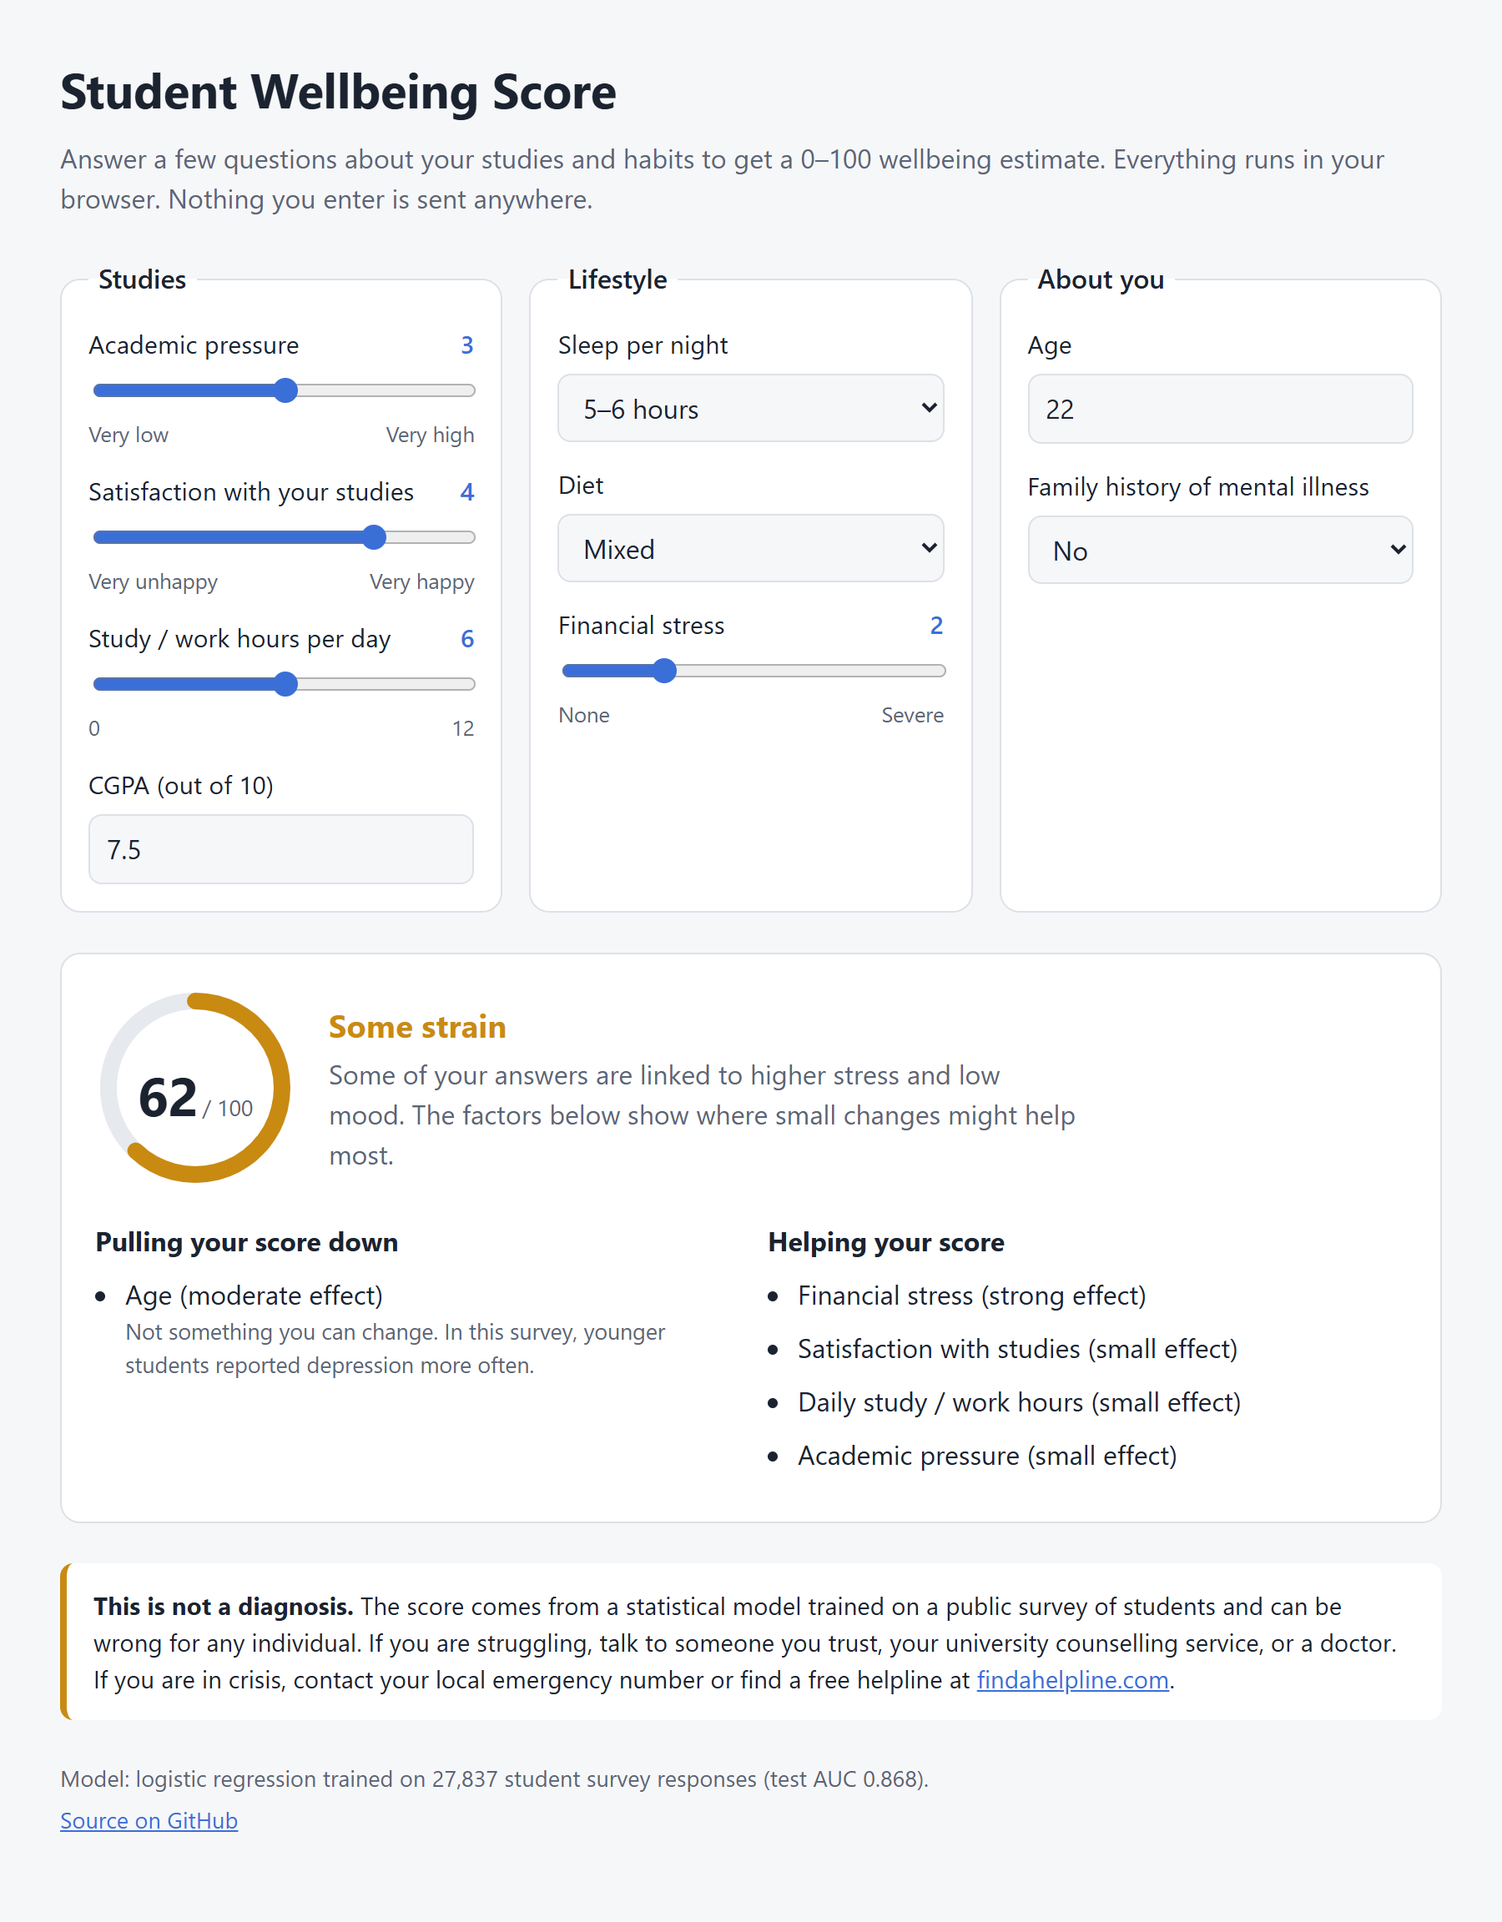
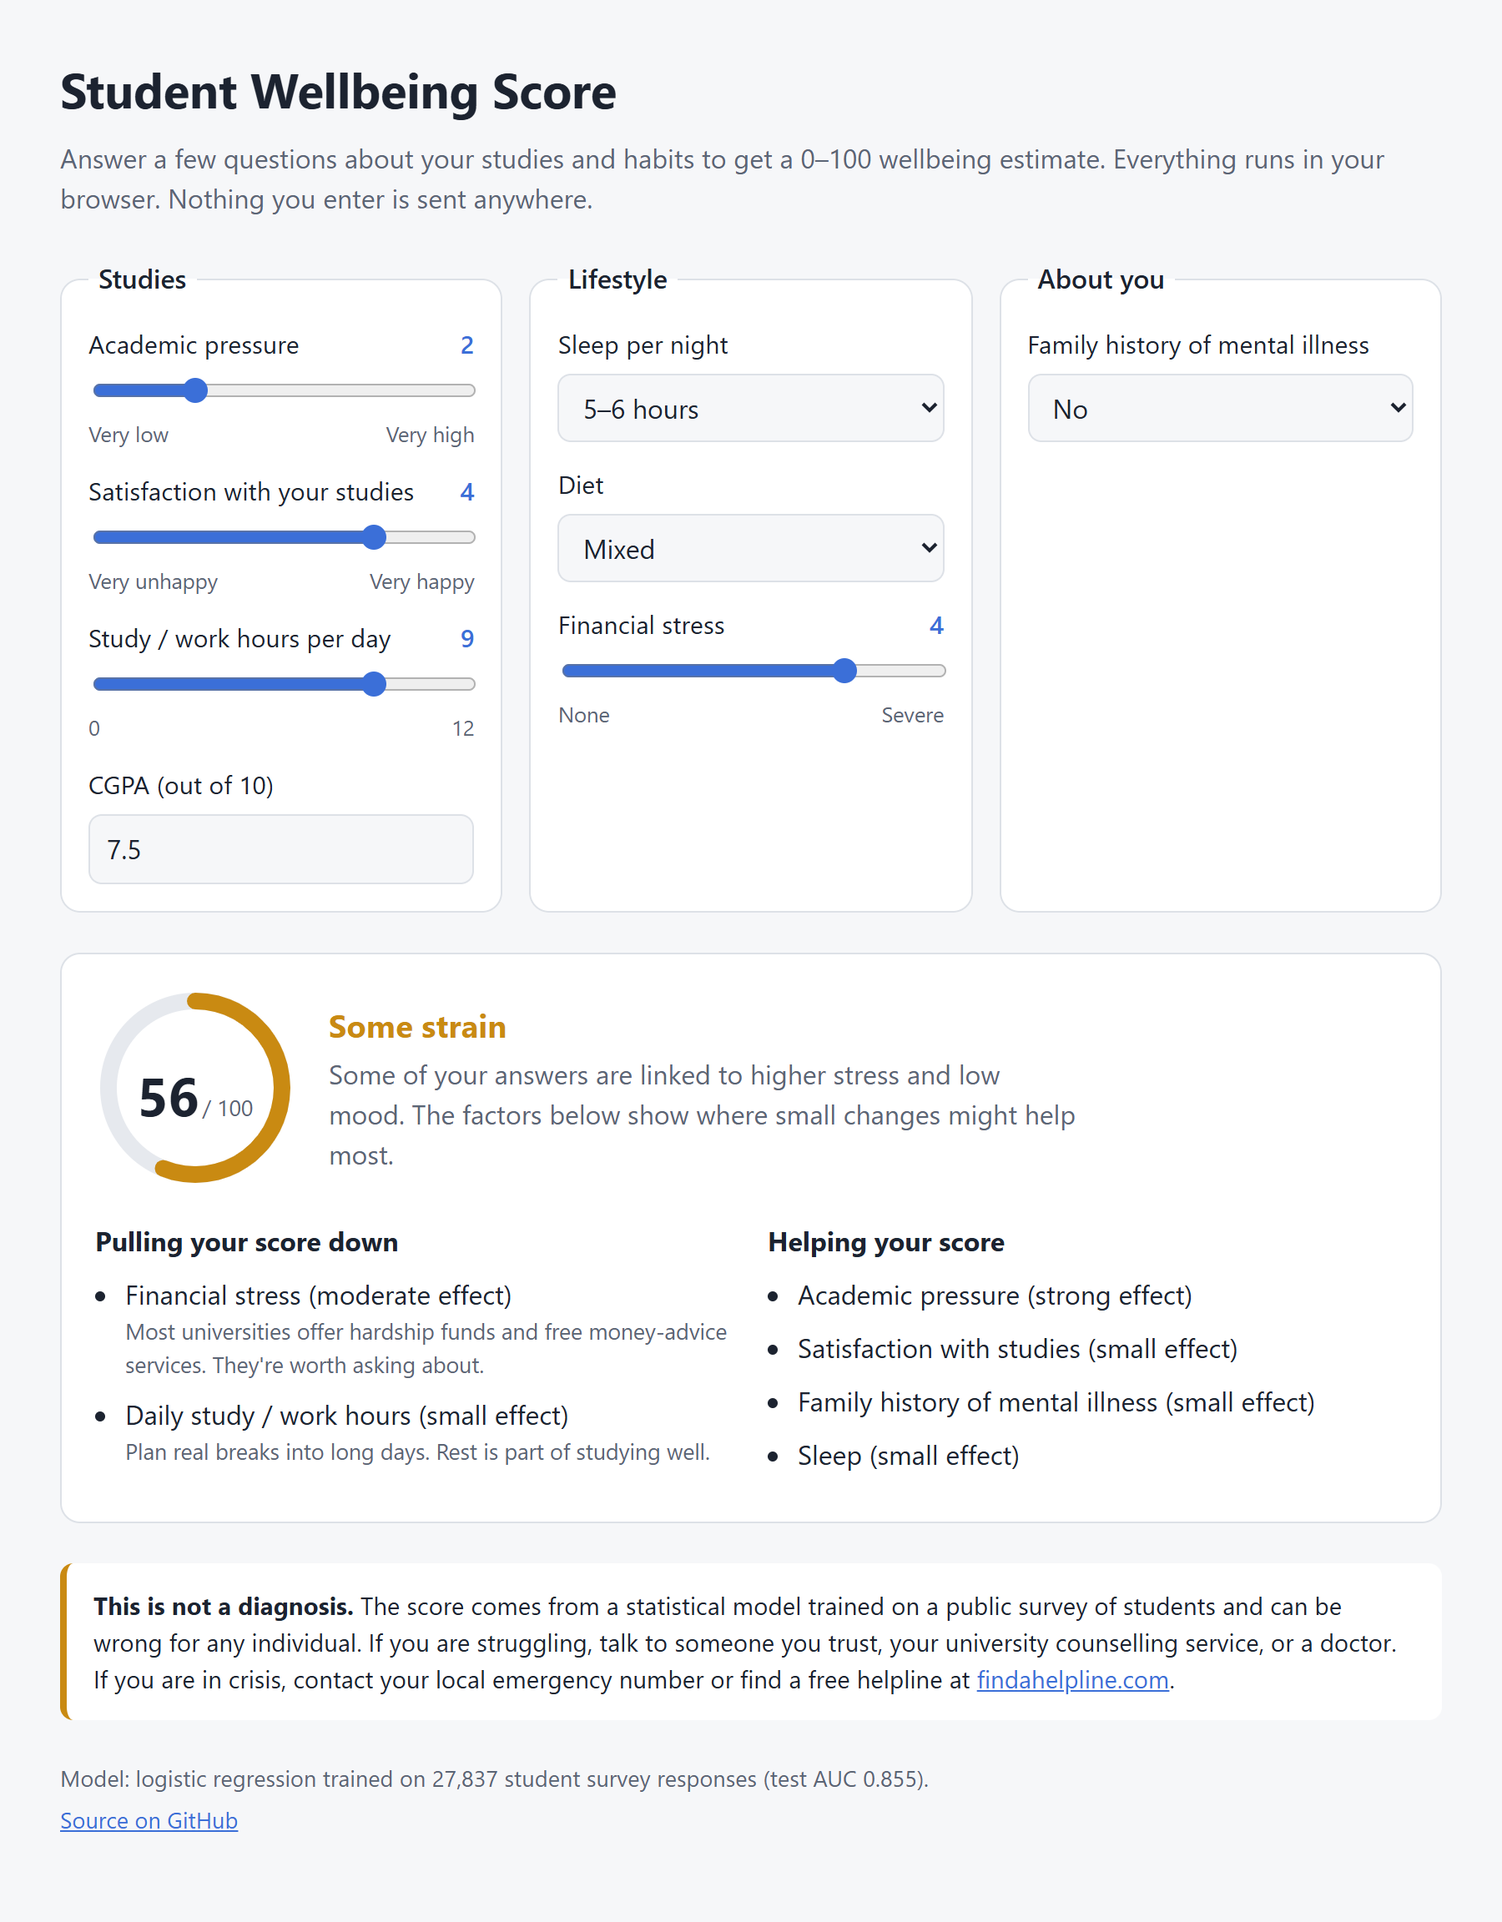
Validate on an external survey, drop age, add model comparison
- src/validate_external.py: tests the site's model on the PHQ-9 Student
  Depression Dataset (682 students, different survey). After consistency
  checks, AUC is 0.830 there vs 0.827 on Indian students with the same inputs.
- Remove age from the model and the form: it can't be changed, and its
  effect didn't hold up outside the training survey (PHQ-9 AUC 0.818 -> 0.830).
- src/compare_models.py: more complex models and more training rows give no
  meaningful gain over logistic regression.
- README: results, external validation, what's left out and why, data credits.

diff --git a/docs/app.js b/docs/app.js
@@ -23,8 +23,6 @@ const GROUPS = [
   { label: "Diet", features: ["Diet: Moderate", "Diet: Unhealthy"],
     tip: "Regular meals with fruit and vegetables help with energy and mood." },
   { label: "CGPA", features: ["CGPA"], tip: "" },
-  { label: "Age", features: ["Age"],
-    tip: "Not something you can change. In this survey, younger students reported depression more often." },
   { label: "Family history of mental illness", features: ["Family history"],
     tip: "You can't change this, but it's useful to mention if you ever speak to a doctor." },
 ];
@@ -35,7 +33,6 @@ function readInputs() {
   const sleep = f.get("sleep");
   const diet = f.get("diet");
   return {
-    "Age": num("age"),
     "Academic Pressure": num("pressure"),
     "CGPA": num("cgpa"),
     "Study Satisfaction": num("satisfaction"),

diff --git a/docs/index.html b/docs/index.html
@@ -77,11 +77,6 @@
         <legend>About you</legend>
 
         <label>
-          <span>Age</span>
-          <input type="number" name="age" min="16" max="40" step="1" value="21" inputmode="numeric">
-        </label>
-
-        <label>
           <span>Family history of mental illness</span>
           <select name="family">
             <option value="No" selected>No</option>

diff --git a/src/validate_external.py b/src/validate_external.py
@@ -1,0 +1,128 @@
+"""Test the site's model on students from a different survey (external validation).
+
+Uses the PHQ-9 Student Depression Dataset (Mendeley Data, CC BY 4.0):
+https://data.mendeley.com/datasets/kkzjk253cy/6
+
+Usage:
+    python src/validate_external.py                 # uses the CSV in data/external/
+    python src/validate_external.py path/to/file.csv
+
+Output:
+    models/external_validation.json
+"""
+
+import json
+import sys
+from pathlib import Path
+
+import numpy as np
+import pandas as pd
+from scipy.stats import spearmanr
+from sklearn.linear_model import LogisticRegression
+from sklearn.metrics import roc_auc_score
+from sklearn.model_selection import StratifiedKFold, cross_val_predict
+from sklearn.pipeline import make_pipeline
+from sklearn.preprocessing import StandardScaler
+
+import train
+
+ROOT = Path(__file__).resolve().parent.parent
+PHQ_ANSWERS = {"Not at all": 0, "Several days": 1, "More than half the days": 2, "Nearly every day": 3}
+# "Good / Average / Bad / Worst" mapped onto the site's 1-5 sliders.
+PRESSURE = {"Good": 2, "Average": 3, "Bad": 4, "Worst": 5}
+# Only these site inputs have a counterpart in the PHQ-9 dataset. The others are
+# set to the training average, so they contribute nothing to the prediction.
+SHARED = ["Academic Pressure", "Financial Stress"]
+
+
+def find_csv() -> Path:
+    if len(sys.argv) > 1:
+        return Path(sys.argv[1])
+    for path in sorted((ROOT / "data" / "external").glob("*.csv")):
+        if "PHQ_Total" in pd.read_csv(path, nrows=0).columns:
+            return path
+    sys.exit("No PHQ-9 CSV in data/external/. Download it first (see README).")
+
+
+def load(path: Path) -> pd.DataFrame:
+    df = pd.read_csv(path, encoding="utf-8-sig")
+    df.columns = df.columns.str.strip()
+    return df
+
+
+def check_consistency(df: pd.DataFrame) -> dict:
+    """Real PHQ-9 data has questions that agree with each other. Fabricated or
+    scrambled data doesn't, so check before trusting any result."""
+    answers = df[df.columns[2:11]].apply(lambda s: s.str.strip().map(PHQ_ANSWERS))
+    if answers.isna().any().any():
+        sys.exit("Unexpected answers in the PHQ-9 columns.")
+    corr = answers.corr(method="spearman").to_numpy()
+    k = answers.shape[1]
+    alpha = k / (k - 1) * (1 - answers.var().sum() / answers.sum(axis=1).var())
+    return {
+        "total_matches_answers": float((answers.sum(axis=1) == df["PHQ_Total"]).mean()),
+        "mean_question_correlation": float(corr[~np.eye(k, dtype=bool)].mean()),
+        "cronbach_alpha": float(alpha),
+    }
+
+
+def site_risk(X: pd.DataFrame) -> np.ndarray:
+    """Exactly what docs/app.js computes, with unknown inputs left at the average."""
+    model = json.loads((ROOT / "docs" / "model.json").read_text())
+    logit = model["intercept"]
+    for f in model["features"]:
+        if f["name"] in X:
+            logit = logit + f["coef"] * (X[f["name"]] - f["mean"]) / f["std"]
+    return 1 / (1 + np.exp(-logit))
+
+
+def india_reference() -> float | None:
+    """AUC on Indian students when the model only gets the same shared inputs."""
+    csvs = sorted((ROOT / "data" / "raw").glob("*.csv"))
+    if not csvs:
+        return None
+    df = train.load(csvs[0])
+    cv = StratifiedKFold(5, shuffle=True, random_state=42)
+    lr = make_pipeline(StandardScaler(), LogisticRegression(max_iter=1000))
+    p = cross_val_predict(lr, df[SHARED], df[train.TARGET].astype(int), cv=cv, method="predict_proba")[:, 1]
+    return float(roc_auc_score(df[train.TARGET].astype(int), p))
+
+
+def main():
+    path = find_csv()
+    df = load(path)
+    checks = check_consistency(df)
+    print(f"Loaded {len(df):,} students from {path.name}")
+    print(f"  PHQ total matches answers: {checks['total_matches_answers']:.0%}   "
+          f"question correlation {checks['mean_question_correlation']:+.2f}   "
+          f"Cronbach's alpha {checks['cronbach_alpha']:.2f}")
+    if checks["cronbach_alpha"] < 0.7:
+        sys.exit("The PHQ-9 answers don't agree with each other. This data can't be trusted.")
+
+    # PHQ-9 total of 10 or more is the standard cut-off for moderate depression.
+    y = (df["PHQ_Total"] >= 10).astype(int)
+    X = pd.DataFrame({
+        "Academic Pressure": df["Study Pressure"].str.strip().map(PRESSURE),
+        "Financial Stress": df["Financial Pressure"].str.strip().map(PRESSURE),
+    })
+    risk = site_risk(X)
+    results = {
+        "rows": int(len(df)),
+        "depressed_share": float(y.mean()),
+        "consistency": checks,
+        "site_model_auc": float(roc_auc_score(y, risk)),
+        "site_model_spearman_vs_phq_total": float(spearmanr(risk, df["PHQ_Total"])[0]),
+        "india_auc_same_inputs": india_reference(),
+    }
+    print(f"  {y.mean():.1%} have PHQ-9 >= 10 (moderate depression or worse)")
+    print(f"  Site model on these students: AUC {results['site_model_auc']:.3f}")
+    if results["india_auc_same_inputs"] is not None:
+        print(f"  Same inputs on Indian students: AUC {results['india_auc_same_inputs']:.3f}")
+
+    (ROOT / "models").mkdir(exist_ok=True)
+    (ROOT / "models" / "external_validation.json").write_text(json.dumps(results, indent=2))
+    print("Wrote models/external_validation.json")
+
+
+if __name__ == "__main__":
+    main()

diff --git a/src/compare_models.py b/src/compare_models.py
@@ -1,0 +1,69 @@
+"""Check whether a more complex model, or more data, would beat the site's model.
+
+Usage:
+    python src/compare_models.py
+
+Output:
+    models/comparison.json
+"""
+
+import json
+import warnings
+from pathlib import Path
+
+from sklearn.ensemble import HistGradientBoostingClassifier, RandomForestClassifier
+from sklearn.linear_model import LogisticRegression
+from sklearn.metrics import accuracy_score, roc_auc_score
+from sklearn.model_selection import StratifiedKFold, cross_val_predict, learning_curve
+from sklearn.pipeline import make_pipeline
+from sklearn.preprocessing import PolynomialFeatures, StandardScaler
+
+import train
+
+warnings.filterwarnings("ignore", category=UserWarning)
+ROOT = Path(__file__).resolve().parent.parent
+CV = StratifiedKFold(5, shuffle=True, random_state=42)
+
+MODELS = {
+    "Logistic regression (site model)":
+        make_pipeline(StandardScaler(), LogisticRegression(max_iter=1000)),
+    "Logistic regression + pairwise interactions":
+        make_pipeline(StandardScaler(), PolynomialFeatures(2, interaction_only=True),
+                      StandardScaler(), LogisticRegression(C=0.1, max_iter=1000)),
+    "Gradient boosting (tuned)":
+        HistGradientBoostingClassifier(learning_rate=0.03, max_iter=600, max_leaf_nodes=15,
+                                       l2_regularization=1.0, early_stopping=True, random_state=42),
+    "Random forest":
+        RandomForestClassifier(500, min_samples_leaf=10, n_jobs=-1, random_state=42),
+}
+
+
+def main():
+    csvs = sorted((ROOT / "data" / "raw").glob("*.csv"))
+    df = train.load(csvs[0])
+    X, y = train.encode(df), df[train.TARGET].astype(int).to_numpy()
+    print(f"5-fold cross-validation on {len(df):,} students\n")
+
+    results = {"models": {}, "learning_curve": {}}
+    for name, model in MODELS.items():
+        p = cross_val_predict(model, X, y, cv=CV, method="predict_proba")[:, 1]
+        auc, acc = roc_auc_score(y, p), accuracy_score(y, p >= 0.5)
+        results["models"][name] = {"auc": auc, "accuracy": acc}
+        print(f"  {name:45s} AUC {auc:.3f}  accuracy {acc:.3f}")
+
+    # Would more rows of the same survey help? Train on growing subsets.
+    print("\nTraining rows -> test AUC (site model)")
+    sizes, _, test = learning_curve(MODELS["Logistic regression (site model)"], X, y, cv=CV,
+                                    train_sizes=[500, 1000, 2000, 5000, 10000, 22000],
+                                    scoring="roc_auc", shuffle=True, random_state=42)
+    for n, auc in zip(sizes, test.mean(axis=1)):
+        results["learning_curve"][int(n)] = float(auc)
+        print(f"  {n:6d}  {auc:.3f}")
+
+    (ROOT / "models").mkdir(exist_ok=True)
+    (ROOT / "models" / "comparison.json").write_text(json.dumps(results, indent=2))
+    print("\nWrote models/comparison.json")
+
+
+if __name__ == "__main__":
+    main()

diff --git a/src/train.py b/src/train.py
@@ -24,14 +24,16 @@ from sklearn.preprocessing import StandardScaler
 ROOT = Path(__file__).resolve().parent.parent
 TARGET = "Depression"
 
-NUMERIC = ["Age", "Academic Pressure", "CGPA", "Study Satisfaction",
+NUMERIC = ["Academic Pressure", "CGPA", "Study Satisfaction",
            "Work/Study Hours", "Financial Stress"]
 SLEEP_LEVELS = ["Less than 5 hours", "5-6 hours", "7-8 hours", "More than 8 hours"]
 DIET_LEVELS = ["Healthy", "Moderate", "Unhealthy"]
 FAMILY = "Family History of Mental Illness"
 
 # Deliberately left out: suicidal-thoughts question (too sensitive to ask in a
-# public web form), and City / Degree / Gender (not things a student can change).
+# public web form), and City / Degree / Gender (not things a student can change,
+# and they add no accuracy). Age is also left out: it can't be changed, and its
+# effect did not hold up on students outside India (see src/validate_external.py).
 
 
 def find_csv() -> Path:

diff --git a/README.md b/README.md
@@ -1,12 +1,12 @@
 # Student Wellbeing Score
 
 A web app that estimates a 0–100 wellbeing score for students from study and lifestyle habits:
-academic pressure, study satisfaction, study hours, financial stress, sleep, diet, CGPA, age and
-family history.
+academic pressure, study satisfaction, study hours, financial stress, sleep, diet, CGPA and family
+history.
 
 **Live demo:** https://abdullahrasheed452.github.io/MentalHealthScorePredictor/
 
-<img src="docs/screenshot.png" alt="The app showing a score of 62, labelled Some strain, with the factors helping and hurting the score" width="600">
+<img src="docs/screenshot.png" alt="The app showing a score of 56, labelled Some strain, with the factors helping and hurting the score" width="600">
 
 > This is an educational project, not a medical tool. The score is a statistical estimate and can
 > be wrong for any individual.
@@ -25,21 +25,46 @@ family history.
 
 ## Results
 
-Trained on 27,837 student rows (58.5% labelled as depression), with a stratified 80/20 test split:
+Trained on 27,837 students (58.5% labelled as depression). With 5-fold cross-validation
+(`src/compare_models.py`), the site's logistic regression scores **AUC 0.860, accuracy 78.8%**.
 
-| Model | Test AUC | Accuracy |
-|---|---|---|
-| Logistic regression (used by the site) | 0.868 | 79.5% |
-| Gradient boosting (for comparison) | 0.864 | 79.3% |
+**More complex models don't do better.** Interactions, tuned gradient boosting and a random forest
+all land within 0.005 AUC of logistic regression (0.855–0.859). Logistic regression is used for the
+site because it runs in a few lines of JavaScript and each input's effect can be shown directly.
 
-Logistic regression is used for the site because it runs in a few lines of JavaScript and its
-per-feature contributions are directly explainable. The question about suicidal thoughts in the
-original dataset is left out on purpose: it is too sensitive to ask in a public web form.
+**More data of the same kind wouldn't help either.** Trained on just 5,000 students the model already
+reaches AUC 0.859, and the remaining 22,000 add 0.001. Better accuracy would need *different*
+information about each student, not more rows.
+
+### Does it work outside India?
+
+The Kaggle survey comes from India, so the model was also tested, unchanged, on the
+[PHQ-9 Student Depression Dataset](https://data.mendeley.com/datasets/kkzjk253cy/6) (682 university
+students, CC BY 4.0) using `src/validate_external.py`. That survey uses different questions and
+measures depression with the PHQ-9, a standard clinical questionnaire (a score of 10 or more counts as
+moderate depression). It shares two of the site's inputs, academic pressure and financial stress.
+
+| Using academic + financial pressure only | AUC |
+|---|---|
+| Indian students (the training survey) | 0.827 |
+| PHQ-9 students (a different survey) | **0.830** |
+
+The model ranks students by depression risk just as well on a survey it never saw. The script first
+checks that the data is internally consistent (Cronbach's alpha 0.88, totals match answers), because
+a second dataset that was tried failed those checks and was dropped.
+
+### What the site leaves out, and why
+
+- **Suicidal thoughts.** Adding this question raises AUC to about 0.92, but it is too sensitive to
+  ask in a public web form, and it is partly a symptom of depression itself.
+- **Age.** In the Indian data younger students reported more depression, but on the PHQ-9 students
+  age had no effect, and leaving it out made the model carry over better. It also can't be changed.
+- **Gender, degree, city.** They add no accuracy and aren't things a student can change.
 
 ## Limitations
 
-- **Who the data describes.** The survey was collected from students in India. Results may not
-  carry over to students elsewhere.
+- **Who the data describes.** The model is trained only on students in India. It held up on a
+  second university survey (see above), but that is one test, not proof that it works everywhere.
 - **Self-reported answers.** Both the habits and the depression label come from a questionnaire,
   not a clinical assessment.
 - **Correlation, not cause.** The model learns which answers tend to appear together. It can't say
@@ -57,16 +82,24 @@ pip install -r requirements.txt
 # 2. Train and export the model
 python src/train.py
 
-# 3. Serve the site locally, then open http://localhost:8000
+# 3. Optional: compare models, and test on the PHQ-9 survey
+#    (download it from Mendeley Data into data/external/ first)
+python src/compare_models.py
+python src/validate_external.py
+
+# 4. Serve the site locally, then open http://localhost:8000
 python -m http.server 8000 --directory docs
 ```
 
 ## Project layout
 
 ```
-data/raw/        Kaggle CSV (not committed)
-src/train.py     training + export
-models/          evaluation metrics
+data/raw/                  Kaggle CSV (not committed)
+data/external/             PHQ-9 CSV for external validation (not committed)
+src/train.py               training + export to docs/model.json
+src/compare_models.py      model comparison and learning curve
+src/validate_external.py   test on the PHQ-9 survey
+models/                    evaluation results (JSON)
 docs/            the website (served by GitHub Pages)
 ```
 
@@ -75,3 +108,8 @@ docs/            the website (served by GitHub Pages)
 GitHub Pages serves the `docs/` folder from the `main` branch
 (Settings → Pages → Source: *Deploy from a branch* → `main` / `/docs`).
 After retraining, commit the new `docs/model.json` and push. The site updates within a minute or two.
+
+## Data credits
+
+- Student Depression Dataset by hopesb, [Kaggle](https://www.kaggle.com/datasets/hopesb/student-depression-dataset).
+- PHQ-9 Student Depression Dataset, [Mendeley Data](https://data.mendeley.com/datasets/kkzjk253cy/6), CC BY 4.0.
